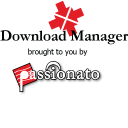
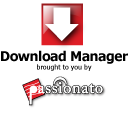
Updated images to new set

diff --git a/src/nz/net/kallisti/emusicj/view/images/passionato/PassionatoImageFactory.java b/src/nz/net/kallisti/emusicj/view/images/passionato/PassionatoImageFactory.java
@@ -62,7 +62,7 @@ public class PassionatoImageFactory extends AbstractImageFactory implements
 
 	public Image getStartIcon() {
 		return new Image(display, this.getClass().getResourceAsStream(
-				"passionato-start-16.png"));
+				"passionato-start-32.png"));
 	}
 
 	public Image getStartSmallIcon() {
